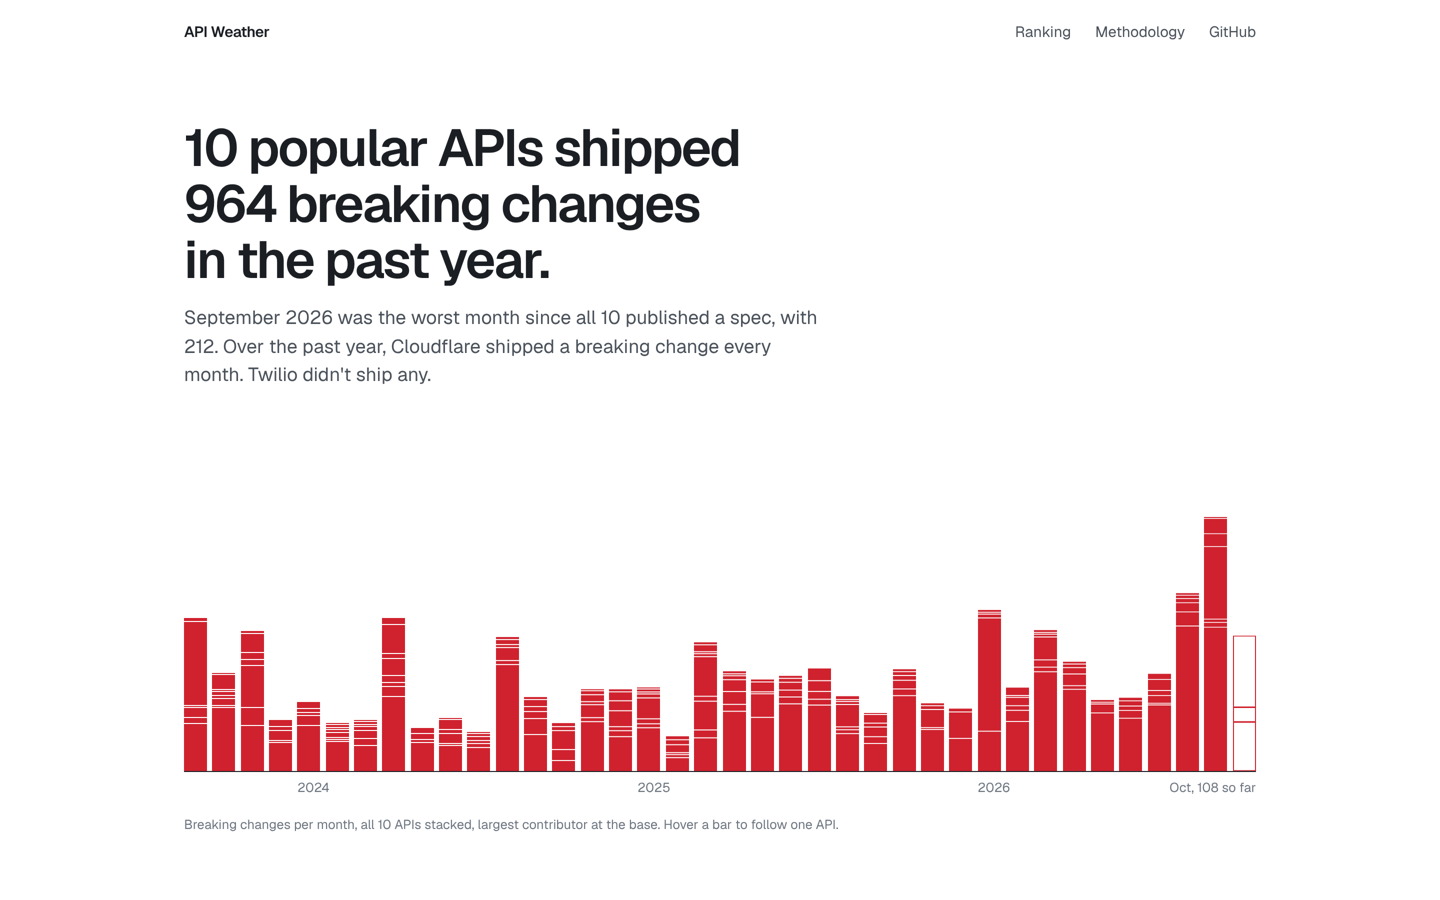
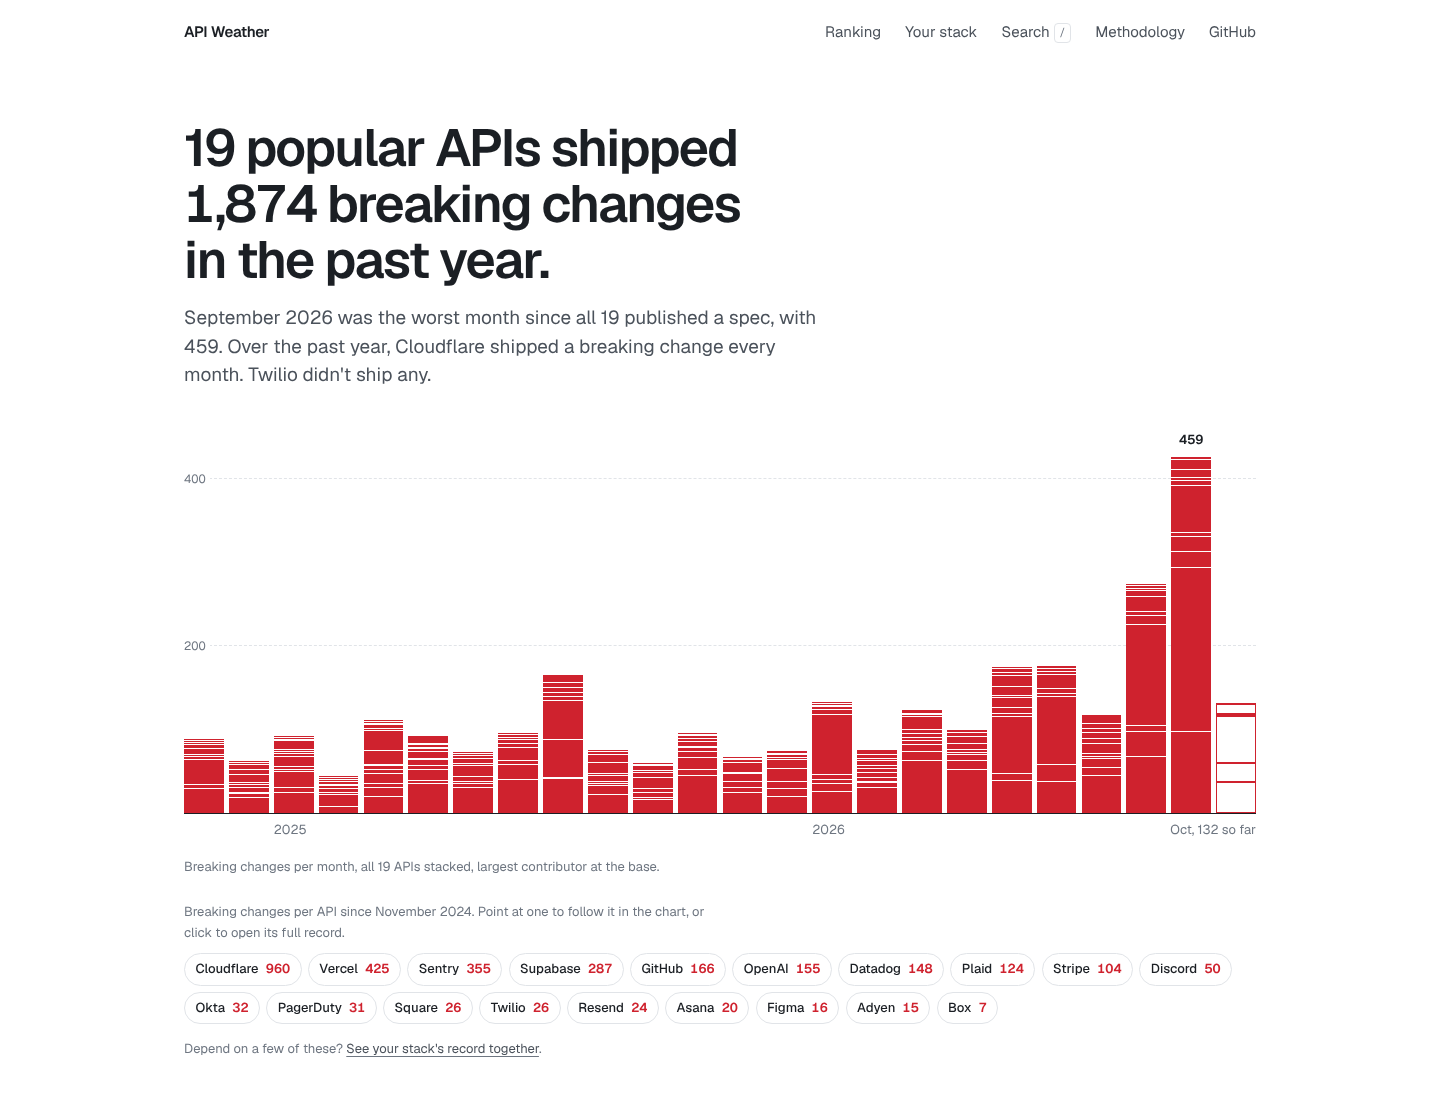
Refresh the README screenshot and fix the stack link style
The screenshot showed the 10-API version. The home page's link to the stack
page picked up the API chip style; it's a plain link again.

diff --git a/README.md b/README.md
@@ -8,7 +8,7 @@ API Weather tracks the public OpenAPI specs of 19 well-known APIs, compares ever
 
 **→ [See the live site](https://fladioarmandika.github.io/api-time-machine/)**
 
-![The API Weather home page: a stacked bar chart of breaking changes per month across 10 APIs](docs/home.png)
+![The API Weather home page: a stacked bar chart of breaking changes per month across 19 APIs](docs/home.png)
 
 ## What the data shows
 
